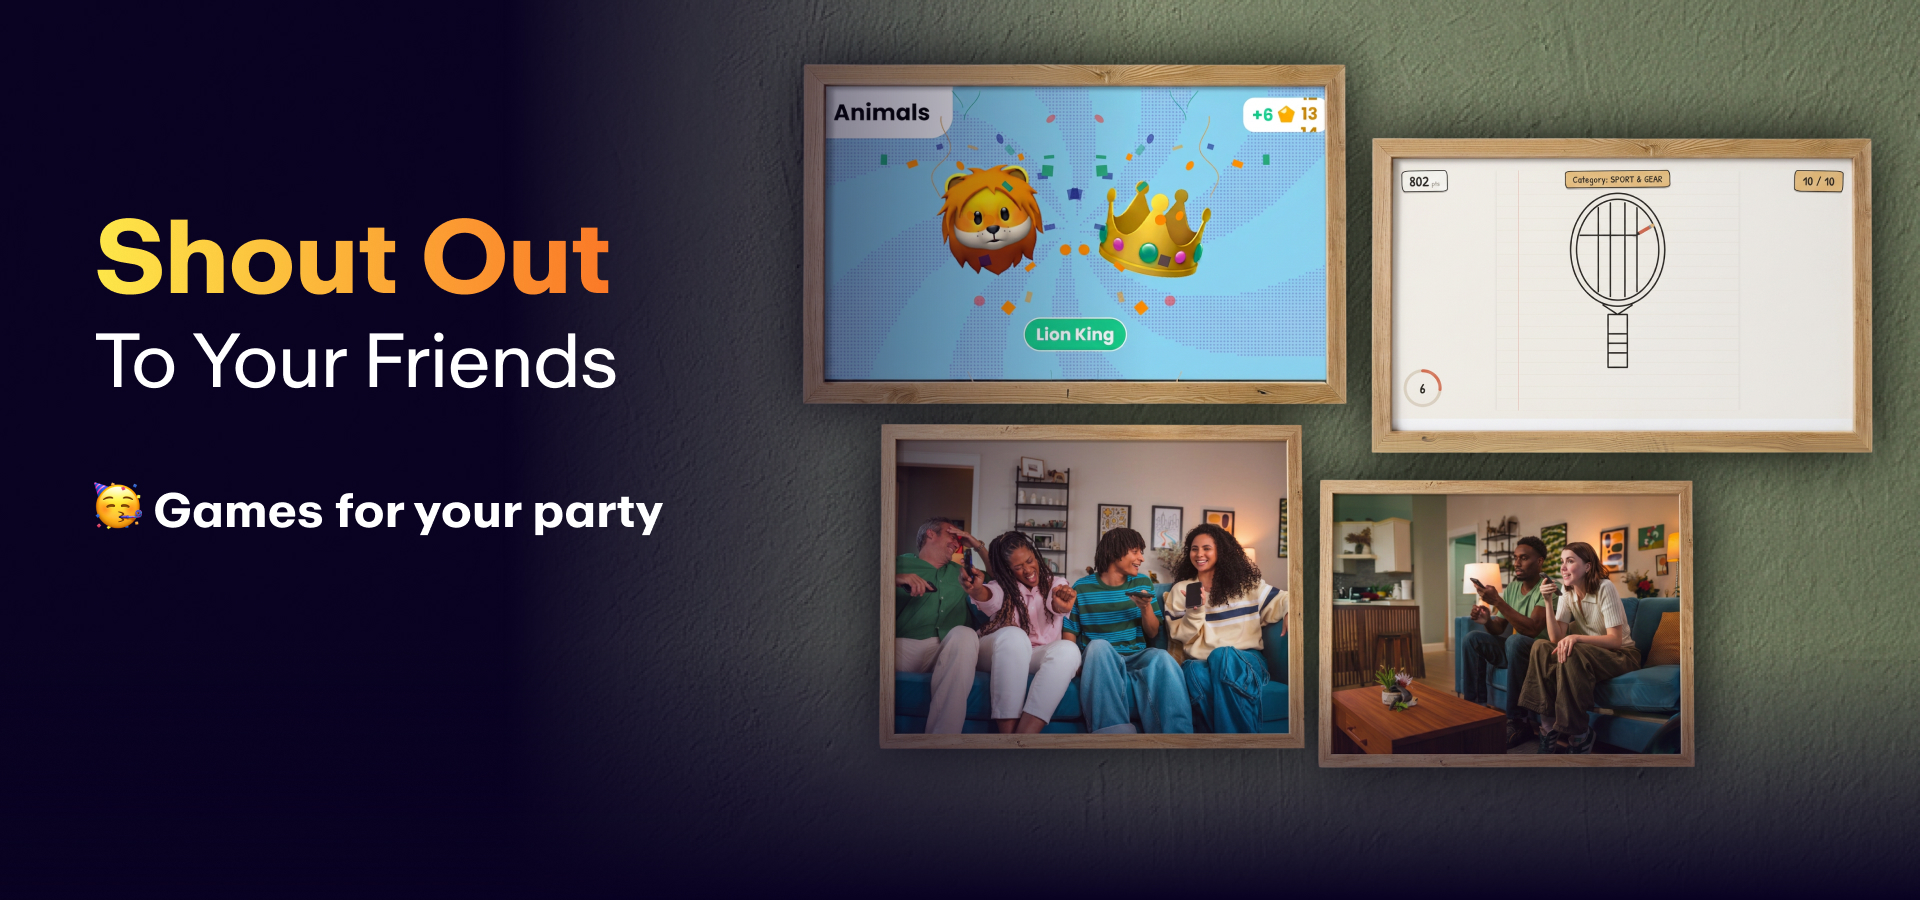
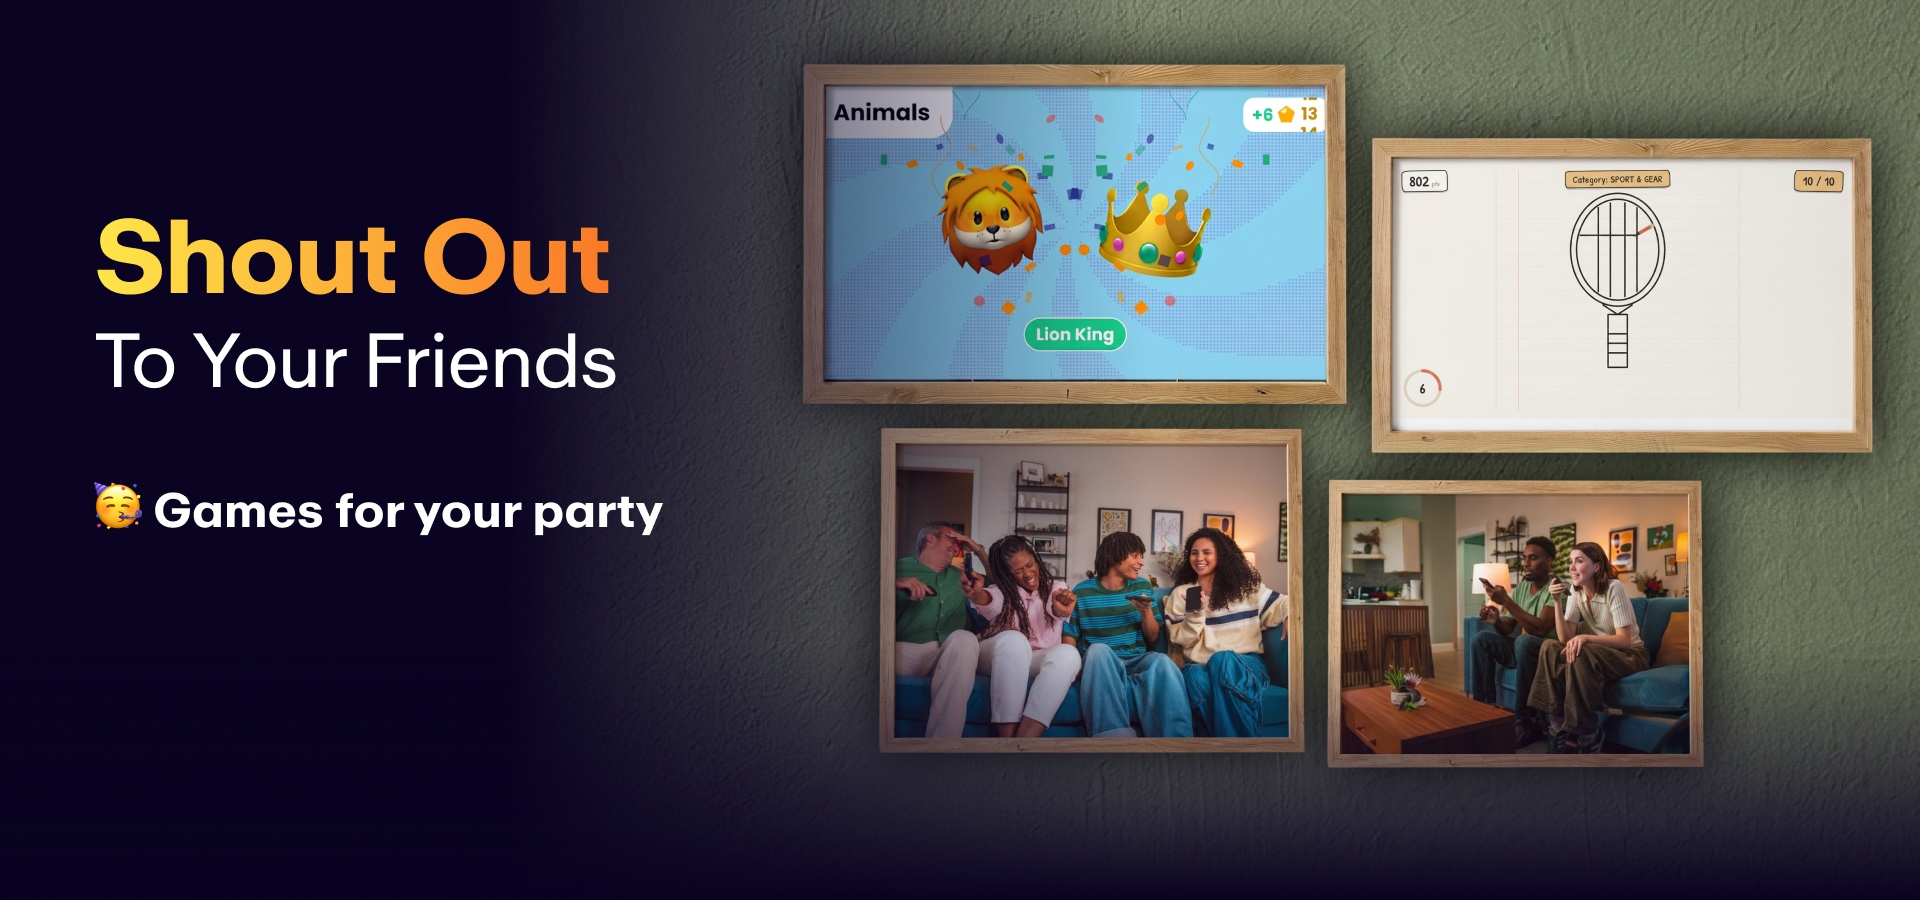
hub9 hero: pause autoplay on input; new Shout Out slide art
The hero carousel now suspends its countdown on any d-pad input and
resumes 1s after the user goes idle, banking the unspent time so the
slide doesn't restart. The active dot freezes mid-fill in lockstep via
animation-play-state, keeping the indicator honest.

Also re-exports the Shout Out merch slide from the updated Figma
creative (repositioned lifestyle photos, new wall texture).

Changed region(s): [[0.4688, 0.4667, 0.9062, 0.84], [0.0625, 0.2489, 0.1875, 0.3422], [0.0312, 0.5289, 0.0625, 0.56]]

diff --git a/packages/tv/src/components/GameHub.tsx b/packages/tv/src/components/GameHub.tsx
@@ -354,6 +354,10 @@ const PREVIEW_GAP = 28;
 // How long each hero slide stays before auto-advancing. The active dot fills
 // over this same duration as a countdown.
 const HERO_AUTOPLAY_MS = 6000;
+// Any d-pad input suspends the hero countdown; it resumes once the user has been
+// idle this long. Keeps the carousel from advancing out from under someone who is
+// actively browsing the hero.
+const HERO_IDLE_RESUME_MS = 1000;
 // Per-shot dwell for the game-info panel's screenshot slideshow (+ dot countdown).
 const PANEL_SHOT_MS = 2600;
 
@@ -1226,7 +1230,23 @@ export const GameHub = forwardRef<HubHandle, GameHubProps>(function GameHub(
     soundManager.playSelectionSound();
   }, []);
 
+  // ── Hero autoplay: pause on input, resume on idle ──────────────────────────
+  // Any d-pad input freezes the hero countdown (and its dot fill); after
+  // HERO_IDLE_RESUME_MS of quiet it picks up where it left off. `heroCycle`
+  // carries the time left in the current slide's countdown across those pauses
+  // so the dot and the timer never drift apart.
+  const [heroPaused, setHeroPaused] = useState(false);
+  const heroCycleRef = useRef({ slide: -1, remain: HERO_AUTOPLAY_MS });
+  const heroIdleTimerRef = useRef<ReturnType<typeof setTimeout> | undefined>(undefined);
+  const nudgeHeroIdle = useCallback(() => {
+    setHeroPaused(true);
+    clearTimeout(heroIdleTimerRef.current);
+    heroIdleTimerRef.current = setTimeout(() => setHeroPaused(false), HERO_IDLE_RESUME_MS);
+  }, []);
+  useEffect(() => () => clearTimeout(heroIdleTimerRef.current), []);
+
   const move = useCallback((dx: number, dy: number) => {
+    nudgeHeroIdle();
     // Full-screen screenshot carousel: ◀▶ swap shots.
     if (shotViewerOpenRef.current) {
       if (dx !== 0) {
@@ -1589,7 +1609,7 @@ export const GameHub = forwardRef<HubHandle, GameHubProps>(function GameHub(
       navRef.current = next;
       setNav(next);
     }
-  }, [toNav, enterContent]); // profile-overlay branches use refs + stable setters only
+  }, [toNav, enterContent, nudgeHeroIdle]); // profile-overlay branches use refs + stable setters only
 
   const navigate = useCallback(
     (direction: NavigationDirection) => {
@@ -1868,18 +1888,38 @@ export const GameHub = forwardRef<HubHandle, GameHubProps>(function GameHub(
 
   // Hero auto-advance while the hero is focused. A per-slide timeout (rather
   // than a fixed interval) so manual navigation resets the clock and the
-  // active-dot countdown stays in sync.
+  // active-dot countdown stays in sync. Input pauses the countdown (see
+  // `nudgeHeroIdle`); the remaining time is banked and resumed once idle.
   useEffect(() => {
-    if (page !== 'home' || nav.sec !== 0 || reduceMotion || panel.game) return;
+    if (page !== 'home' || nav.sec !== 0 || reduceMotion || panel.game) {
+      // Leaving the hero abandons the countdown — it starts fresh on return.
+      heroCycleRef.current = { slide: -1, remain: HERO_AUTOPLAY_MS };
+      return;
+    }
+    const cycle = heroCycleRef.current;
+    // A different slide is a brand-new countdown, however we got here.
+    if (cycle.slide !== nav.heroSlide) {
+      cycle.slide = nav.heroSlide;
+      cycle.remain = HERO_AUTOPLAY_MS;
+    }
+    if (heroPaused) return;
+    const startedAt = Date.now();
+    let fired = false;
     const t = setTimeout(() => {
+      fired = true;
+      cycle.remain = HERO_AUTOPLAY_MS;
       setNav((p) => {
         const n = { ...p, heroSlide: (p.heroSlide + 1) % heroSlideCount, col: 0 };
         navRef.current = n;
         return n;
       });
-    }, HERO_AUTOPLAY_MS);
-    return () => clearTimeout(t);
-  }, [page, nav.sec, nav.heroSlide, panel.game]);
+    }, cycle.remain);
+    // Bank the unspent time so a pause (or a re-render) doesn't restart the slide.
+    return () => {
+      clearTimeout(t);
+      if (!fired) cycle.remain = Math.max(0, cycle.remain - (Date.now() - startedAt));
+    };
+  }, [page, nav.sec, nav.heroSlide, panel.game, heroPaused]);
 
   // Slideshow on a focused slideshow-tile: hold the cover art for 1s, then
   // start looping the game's screenshots.
@@ -2822,7 +2862,13 @@ export const GameHub = forwardRef<HubHandle, GameHubProps>(function GameHub(
                           background: theme.dsAccent ? CANARY : INK,
                           transformOrigin: 'left center',
                           ...(countdown
-                            ? { animation: `hubHeroDotFill ${HERO_AUTOPLAY_MS}ms linear forwards` }
+                            ? {
+                                animation: `hubHeroDotFill ${HERO_AUTOPLAY_MS}ms linear forwards`,
+                                // Freeze mid-fill while input has the countdown
+                                // paused; CSS holds the elapsed time for us, so it
+                                // resumes in step with the banked timeout.
+                                animationPlayState: heroPaused ? 'paused' : 'running',
+                              }
                             : { transform: 'scaleX(1)' }),
                         }}
                       />
